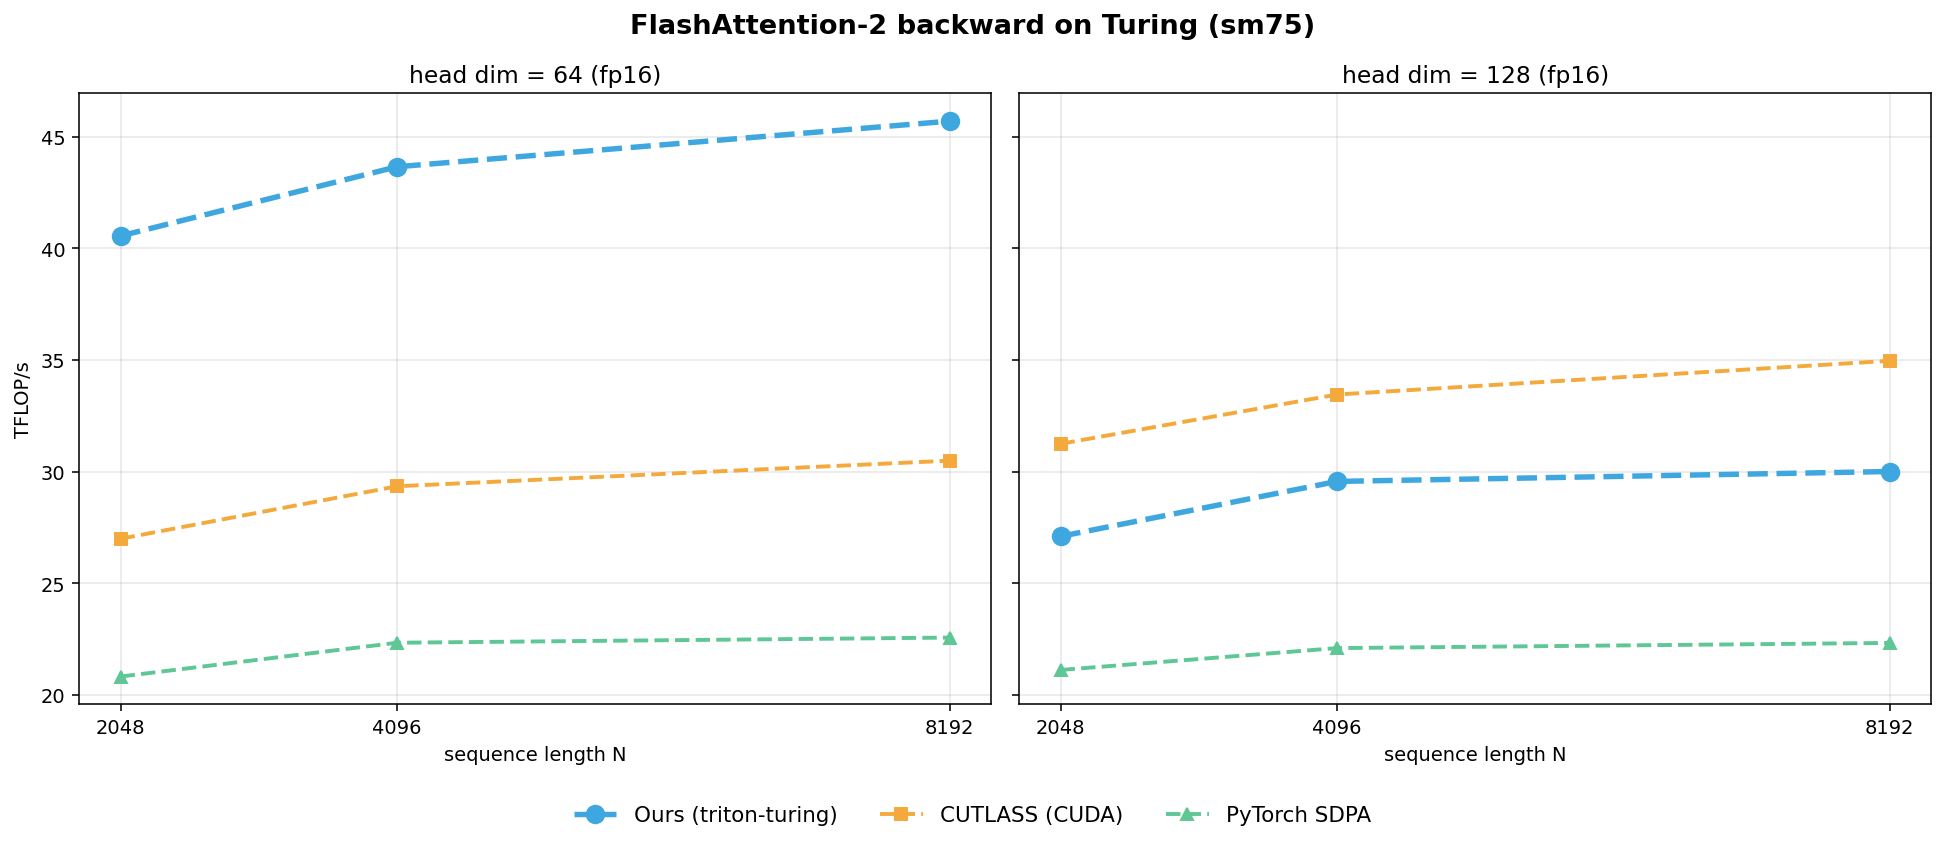
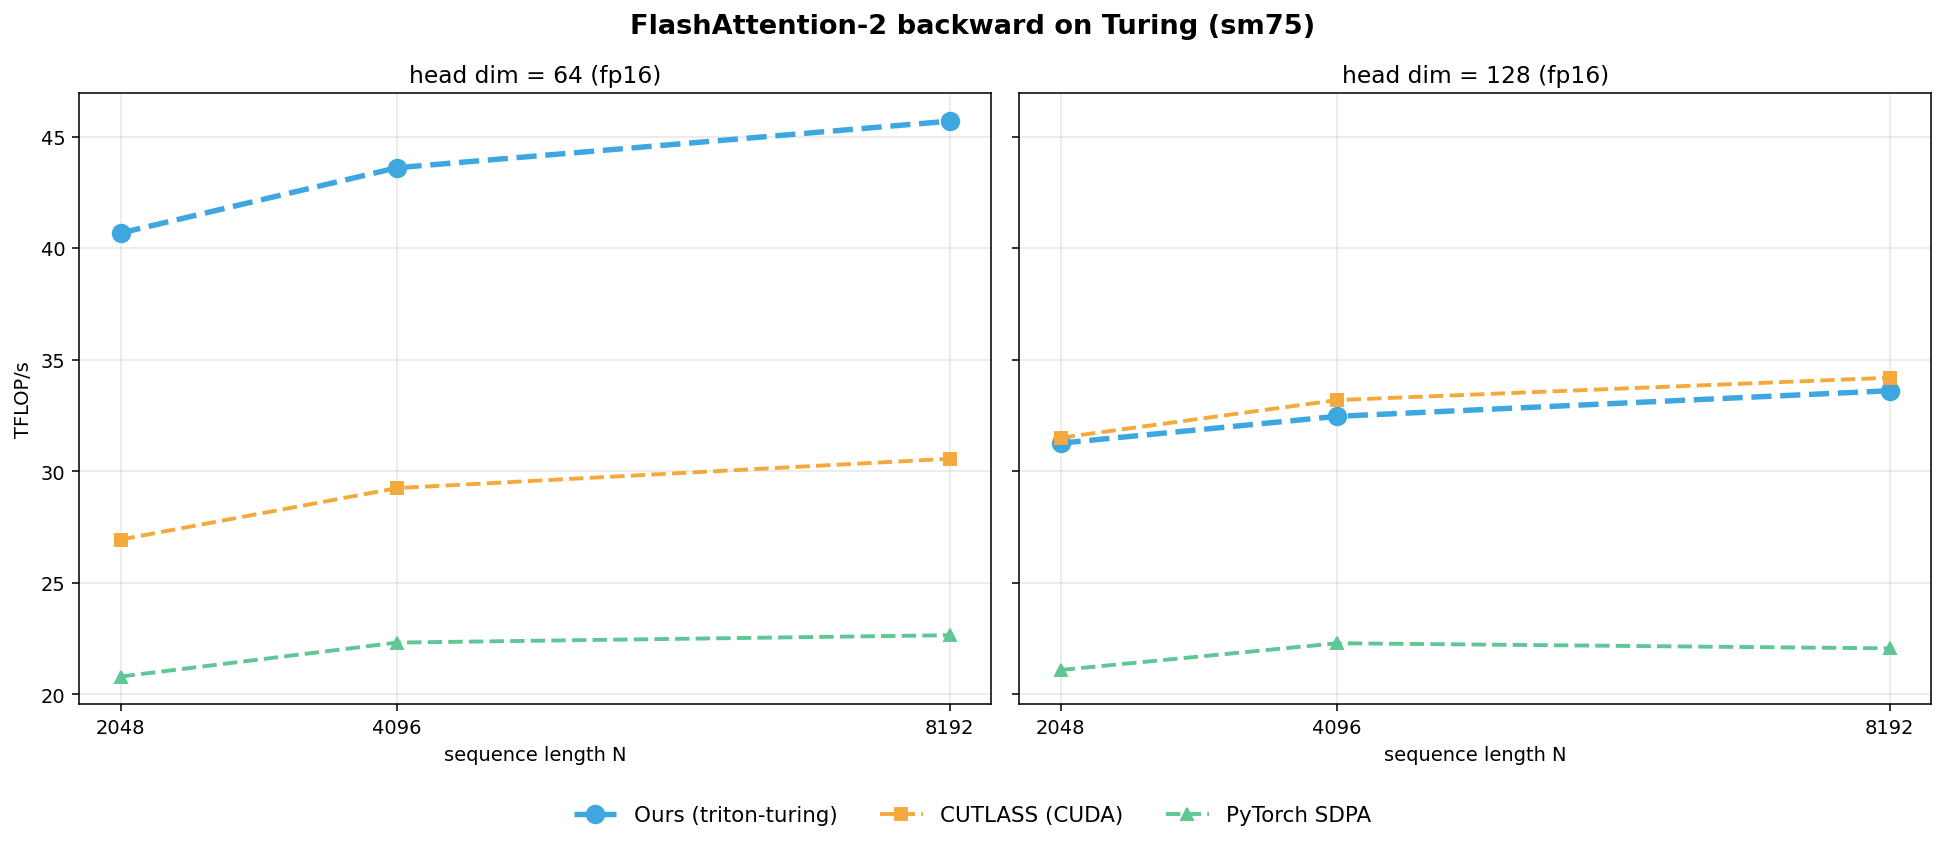
perf(tritongpu): pick the chained-dot warp grid by operand traffic
For chained dots whose accumulator is wider than tall, upstream spreads
the warps along N ([1, numWarps]). That keeps nothing in registers --
the chained operand crosses warps through shared memory either way --
and makes every warp load the whole A operand of every dot. On sm75,
pick instead the grid that minimises the operand data each warp loads,
summed over all chained dots of the function so both loops agree.

FA2 backward at d128: dK/dV 1x8 -> 2x4, dQ 1x4 -> 2x2, LDSM per
iteration 112 -> 80 and 84 -> 60, each kernel ~14% faster, bitwise
identical. End to end it goes from 12-14% behind the CUDA kernel to
within 2%. Shipped forward and d64 configs compile to identical cubins.

diff --git a/lib/Dialect/TritonGPU/Transforms/AccelerateMatmul.cpp b/lib/Dialect/TritonGPU/Transforms/AccelerateMatmul.cpp
@@ -108,9 +108,41 @@ static int getMMAVersionSafe(int computeCapability, DotOp op,
   return 0;
 }
 
+// sm75: the warp grid for a function's chained dots when upstream would pick
+// [1, numWarps] (see warpsPerTileV2). That keeps nothing in registers --
+// the chained operand crosses warps through shared memory either way -- and
+// makes every warp load the whole A operand of every dot. Pick instead the
+// grid that minimises what each warp loads: a warp owning an (M/wm) x (N/wn)
+// tile of an MxNxK dot needs (M/wm) x K of A and K x (N/wn) of B, and a tile
+// smaller than one instruction (16x8) is replicated, not shrunk. The sum runs
+// over every chained dot of the function, so all loops agree and an
+// accumulator carried from one loop into the next needs no conversion. Ties go
+// to more warps along M, which keeps row reductions within fewer warps.
+//
+// In the FA2 backward at d128 (64x128 accumulators) this turns 112 LDSM per
+// iteration into 80 for dK/dV (2x4 instead of 1x8, 8 warps) and 84 into 60
+// for dQ (2x2 instead of 1x4); both run ~14% faster, bit-identical.
+static SmallVector<unsigned>
+chainedDotWarpsPerTileSm75(ArrayRef<std::array<int64_t, 3>> mnk,
+                           int numWarps) {
+  SmallVector<unsigned> best;
+  int64_t bestCost = std::numeric_limits<int64_t>::max();
+  for (int64_t wm = numWarps; wm >= 1; wm /= 2) {
+    int64_t wn = numWarps / wm, cost = 0;
+    for (auto [m, n, k] : mnk)
+      cost += std::max<int64_t>(m / wm, 16) * k +
+              k * std::max<int64_t>(n / wn, 8);
+    if (cost < bestCost) {
+      bestCost = cost;
+      best = {(unsigned)wm, (unsigned)wn};
+    }
+  }
+  return best;
+}
+
 SmallVector<unsigned> warpsPerTileV2(DotOpInterface dotOp,
                                      const ArrayRef<int64_t> shape,
-                                     int numWarps) {
+                                     int numWarps, int computeCapability) {
   auto rank = shape.size();
   // Early exit for batched matmul
   if (rank == 3)
@@ -136,6 +168,33 @@ SmallVector<unsigned> warpsPerTileV2(DotOpInterface dotOp,
     }
   }
   if (hasChainedDot) {
+    auto func = dotOp->getParentOfType<FuncOp>();
+    if (computeCapability == 75 && func) {
+      // Upstream decides on this dot's shape alone, so the answer depends on
+      // which dot of a chain is rewritten first; decide on all of them.
+      SmallVector<std::array<int64_t, 3>> mnk;
+      bool anyWiderThanTall = false;
+      func.walk([&](DotOp dot) {
+        auto d = getShapePerCTA(dot.getD().getType());
+        if (d.size() != 2)
+          return;
+        Operation *op = dot.getOperation();
+        auto sameRegion = [op](Operation *o) {
+          return o->getParentRegion() == op->getParentRegion() &&
+                 !isa<TransOp>(o);
+        };
+        if (!llvm::any_of(mlir::getSlice(op, {sameRegion}, {sameRegion}),
+                          [op](Operation *o) {
+                            return isa<DotOp, DotScaledOp>(o) && o != op;
+                          }))
+          return;
+        mnk.push_back({d[0], d[1], dot.getA().getType().getShape()[1]});
+        anyWiderThanTall |= d[0] < d[1];
+      });
+      if (anyWiderThanTall)
+        return chainedDotWarpsPerTileSm75(mnk, numWarps);
+      return {(unsigned)numWarps, 1};
+    }
     if (shape[0] >= shape[1]) {
       return {(unsigned)numWarps, 1};
     } else {
@@ -275,10 +334,11 @@ getSharedMemoryScale(Value arg, mlir::PatternRewriter &rewriter, Location loc) {
 SmallVector<unsigned, 3>
 getWarpsPerTile(DotOpInterface dotOp, const ArrayRef<int64_t> shape,
                 int version, int numWarps,
-                const SmallVector<unsigned, 3> &instrShape) {
+                const SmallVector<unsigned, 3> &instrShape,
+                int computeCapability) {
   switch (version) {
   case 2:
-    return warpsPerTileV2(dotOp, shape, numWarps);
+    return warpsPerTileV2(dotOp, shape, numWarps, computeCapability);
   case 3:
     return warpsPerTileV3(dotOp, shape, numWarps, instrShape);
   default:
@@ -367,7 +427,7 @@ static MMAEncodingResult createMMAEncodingForDot(DotOpInterface dotOp,
   auto instrShape = mmaVersionToInstrShape(versionMajor, retShapePerCTA,
                                            oldAType.getElementType(), numWarps);
   auto warpsPerTile = getWarpsPerTile(dotOp, retShapePerCTA, versionMajor,
-                                      numWarps, instrShape);
+                                      numWarps, instrShape, computeCapability);
 
   auto mmaEnc = NvidiaMmaEncodingAttr::get(oldRetType.getContext(),
                                            versionMajor, versionMinor,

diff --git a/README.md b/README.md
@@ -35,27 +35,29 @@ are still throttle-prone.
 
 The Triton FA2 forward kernel (tutorial `06-fused-attention.py` plus our sm75
 pipeline) is the fastest at every size measured. It is ahead of a from-scratch
-CUDA/CUTLASS FlashAttention for Turing by **+21–28%** at head dim 64 and
-**+7–11%** at head dim 128, and ahead of PyTorch SDPA (xformers backend) by
-**1.8–2.1×**. Attention benefits from the pipeline because the softmax
+CUDA/CUTLASS FlashAttention for Turing by **+22–28%** at head dim 64 and
+**+4–10%** at head dim 128, and ahead of PyTorch SDPA (xformers backend) by
+**1.7–2.1×**. Attention benefits from the pipeline because the softmax
 dependency chain leaves the Tensor Cores idle, and the pipeline uses that window
 to prefetch K/V.
 
-### FlashAttention-2 backward — a mixed result, and our one weakness
+### FlashAttention-2 backward — ahead at head dim 64, level at 128
 
 ![FlashAttention-2 backward](.github/assets/benchmarks/fa2-backward.png)
 
-At head dim 64 our kernel beats the CUDA/CUTLASS implementation by **+49–50%**.
+At head dim 64 our kernel beats the CUDA/CUTLASS implementation by **+49–51%**.
 Three Turing-specific changes add up to that: block sizes that fit 64 KB, a
 codegen change that lets a transposed dot operand read the shared buffer its
 untransposed sibling already filled, and launching the dK/dV and dQ halves as two
 kernels so each gets its own tiling and the full 64 KB.
 
-At head dim 128 it **trails by 12–14%**, the only place we lose. Splitting the
-kernel removes its register spills but gains only 1–2% here. With the same
-64×64 tile and 8 warps as the CUDA kernel and no spills, our dK/dV kernel is
-still 17% slower, so what remains is in code generation, not in the
-configuration.
+At head dim 128 it is **level with the CUDA kernel, 1–2% behind**; it used to
+trail by 12–14%. The gap was how the warps split each chained dot. Upstream
+lines the warps up side by side along the 128 columns of the accumulator (1×8,
+1×4), so every warp loads the whole A operand of every dot from shared memory.
+On sm75 we pick the warp grid that loads the least instead: 2×4 for dK/dV and
+2×2 for dQ. That cuts shared-memory loads per iteration by 29% and makes each
+kernel about 14% faster, with bit-identical results.
 
 ### Integer GEMM — INT4 doubles INT8, and cuBLAS has no INT4 path
 
